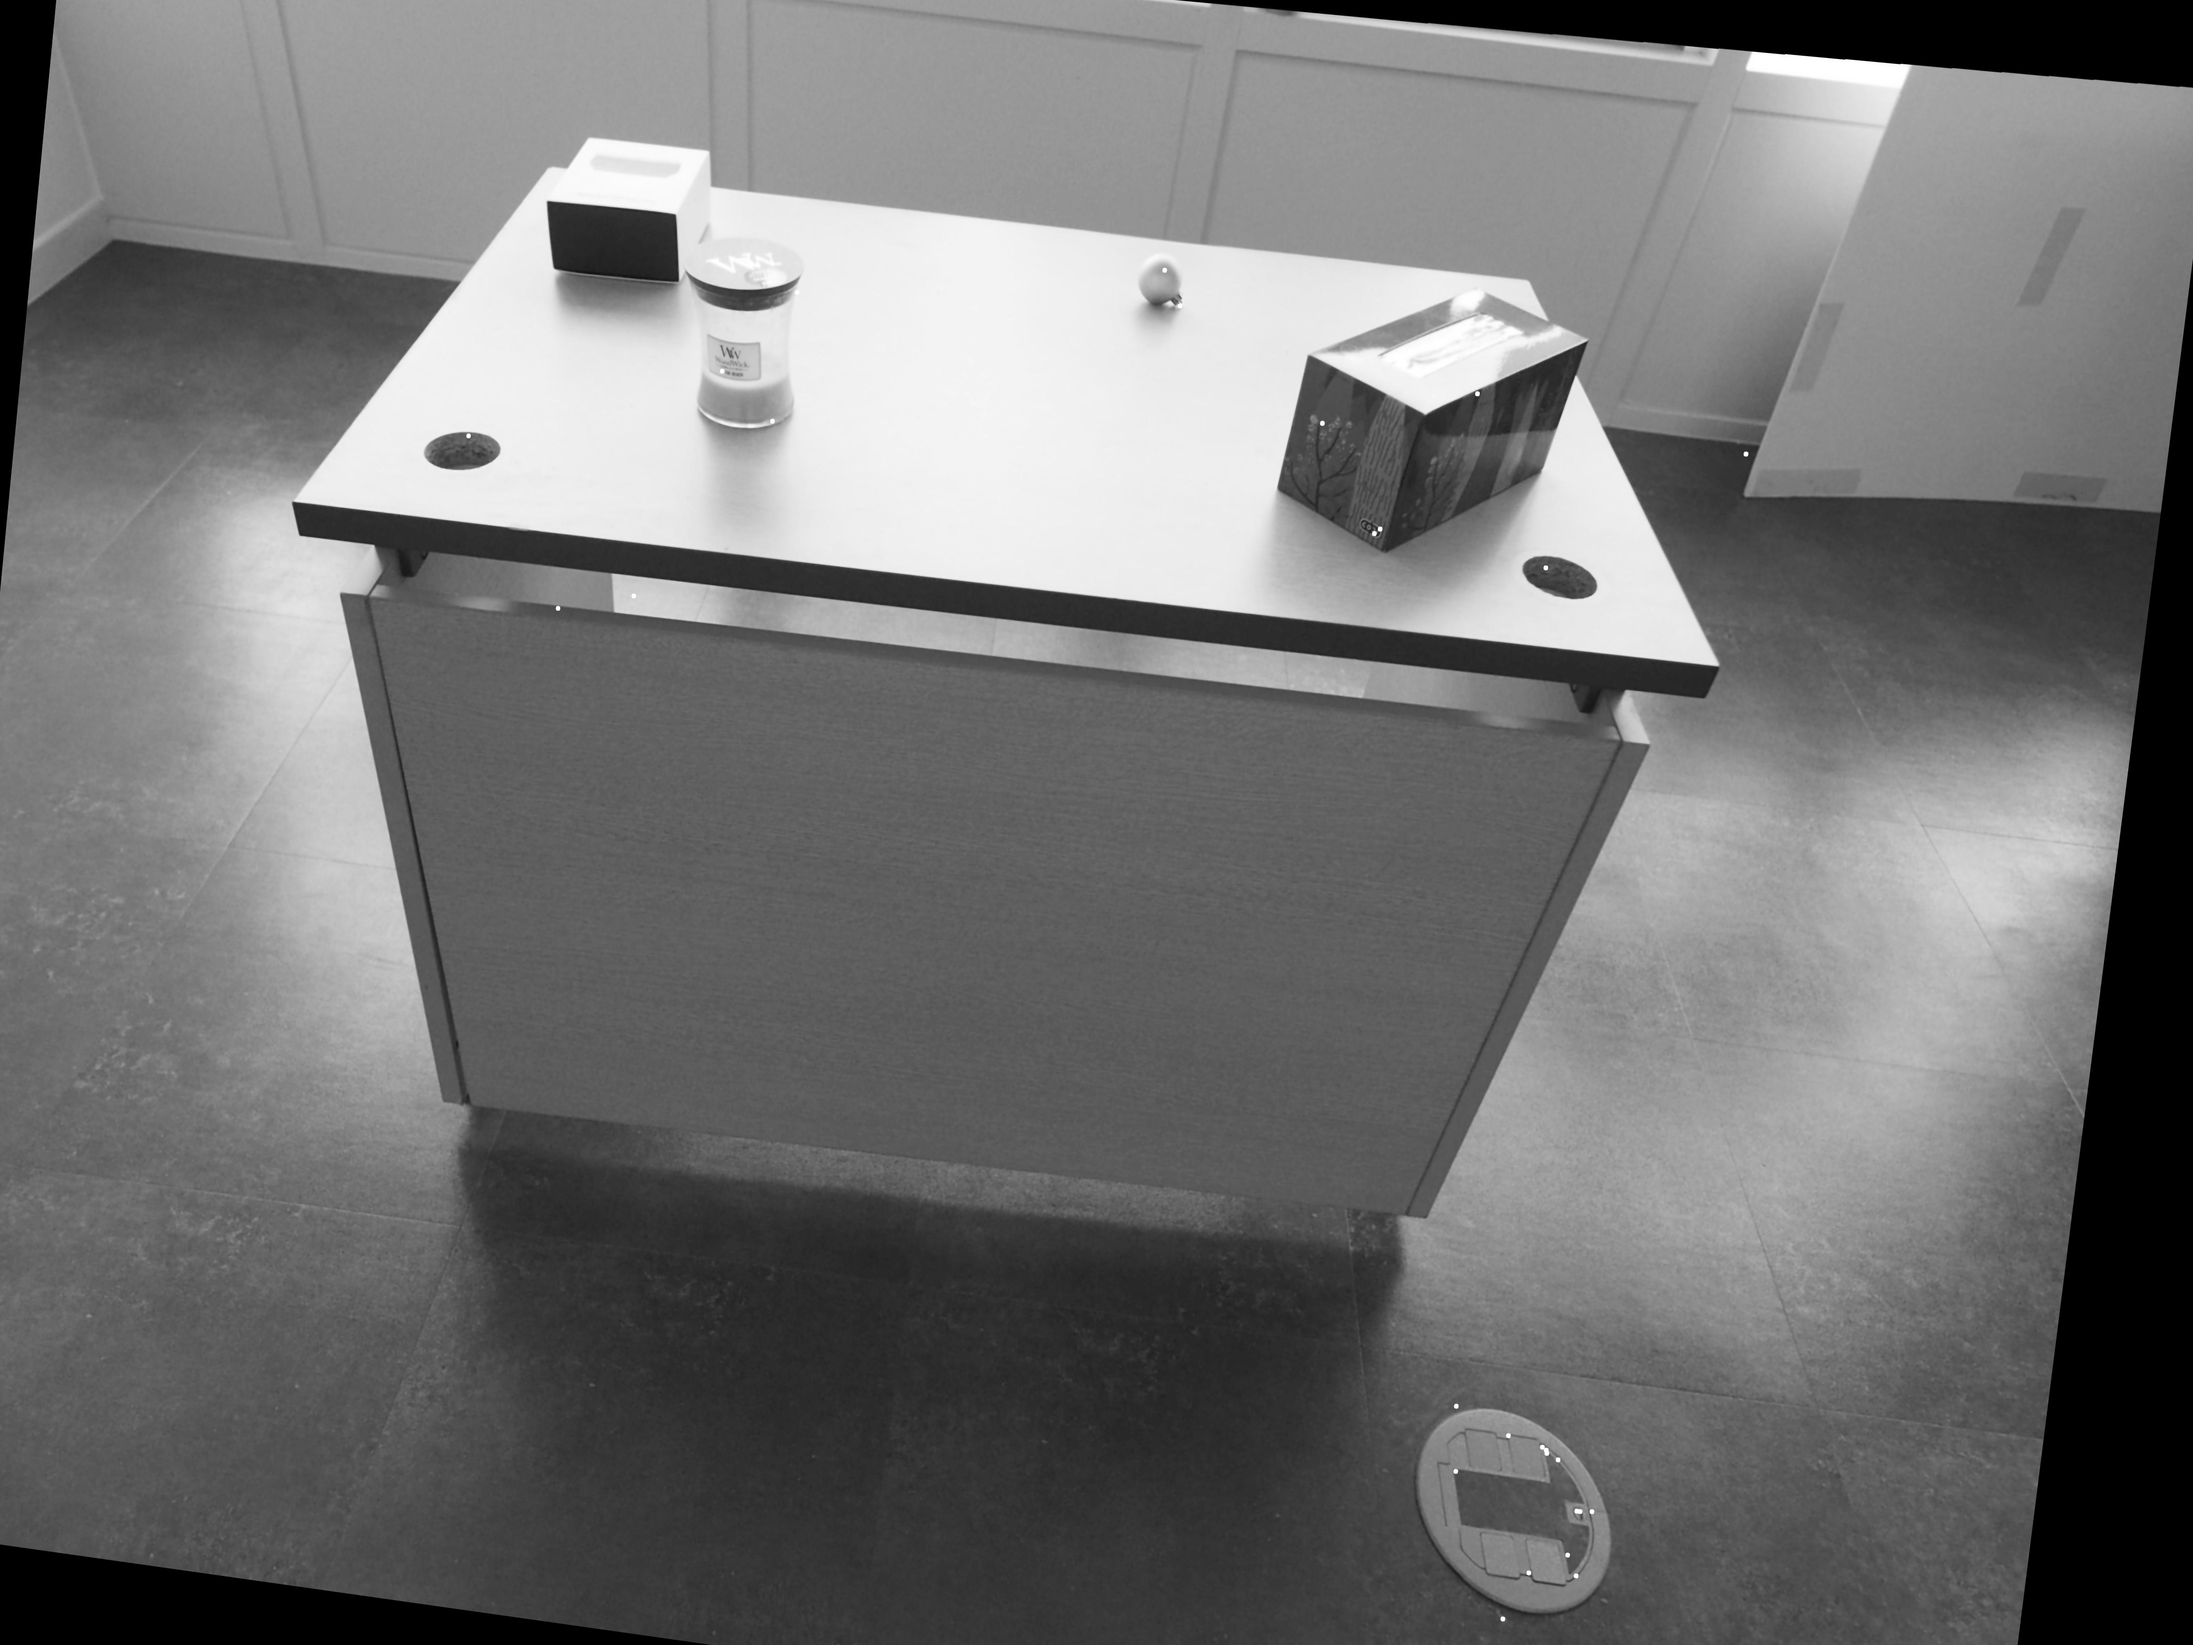
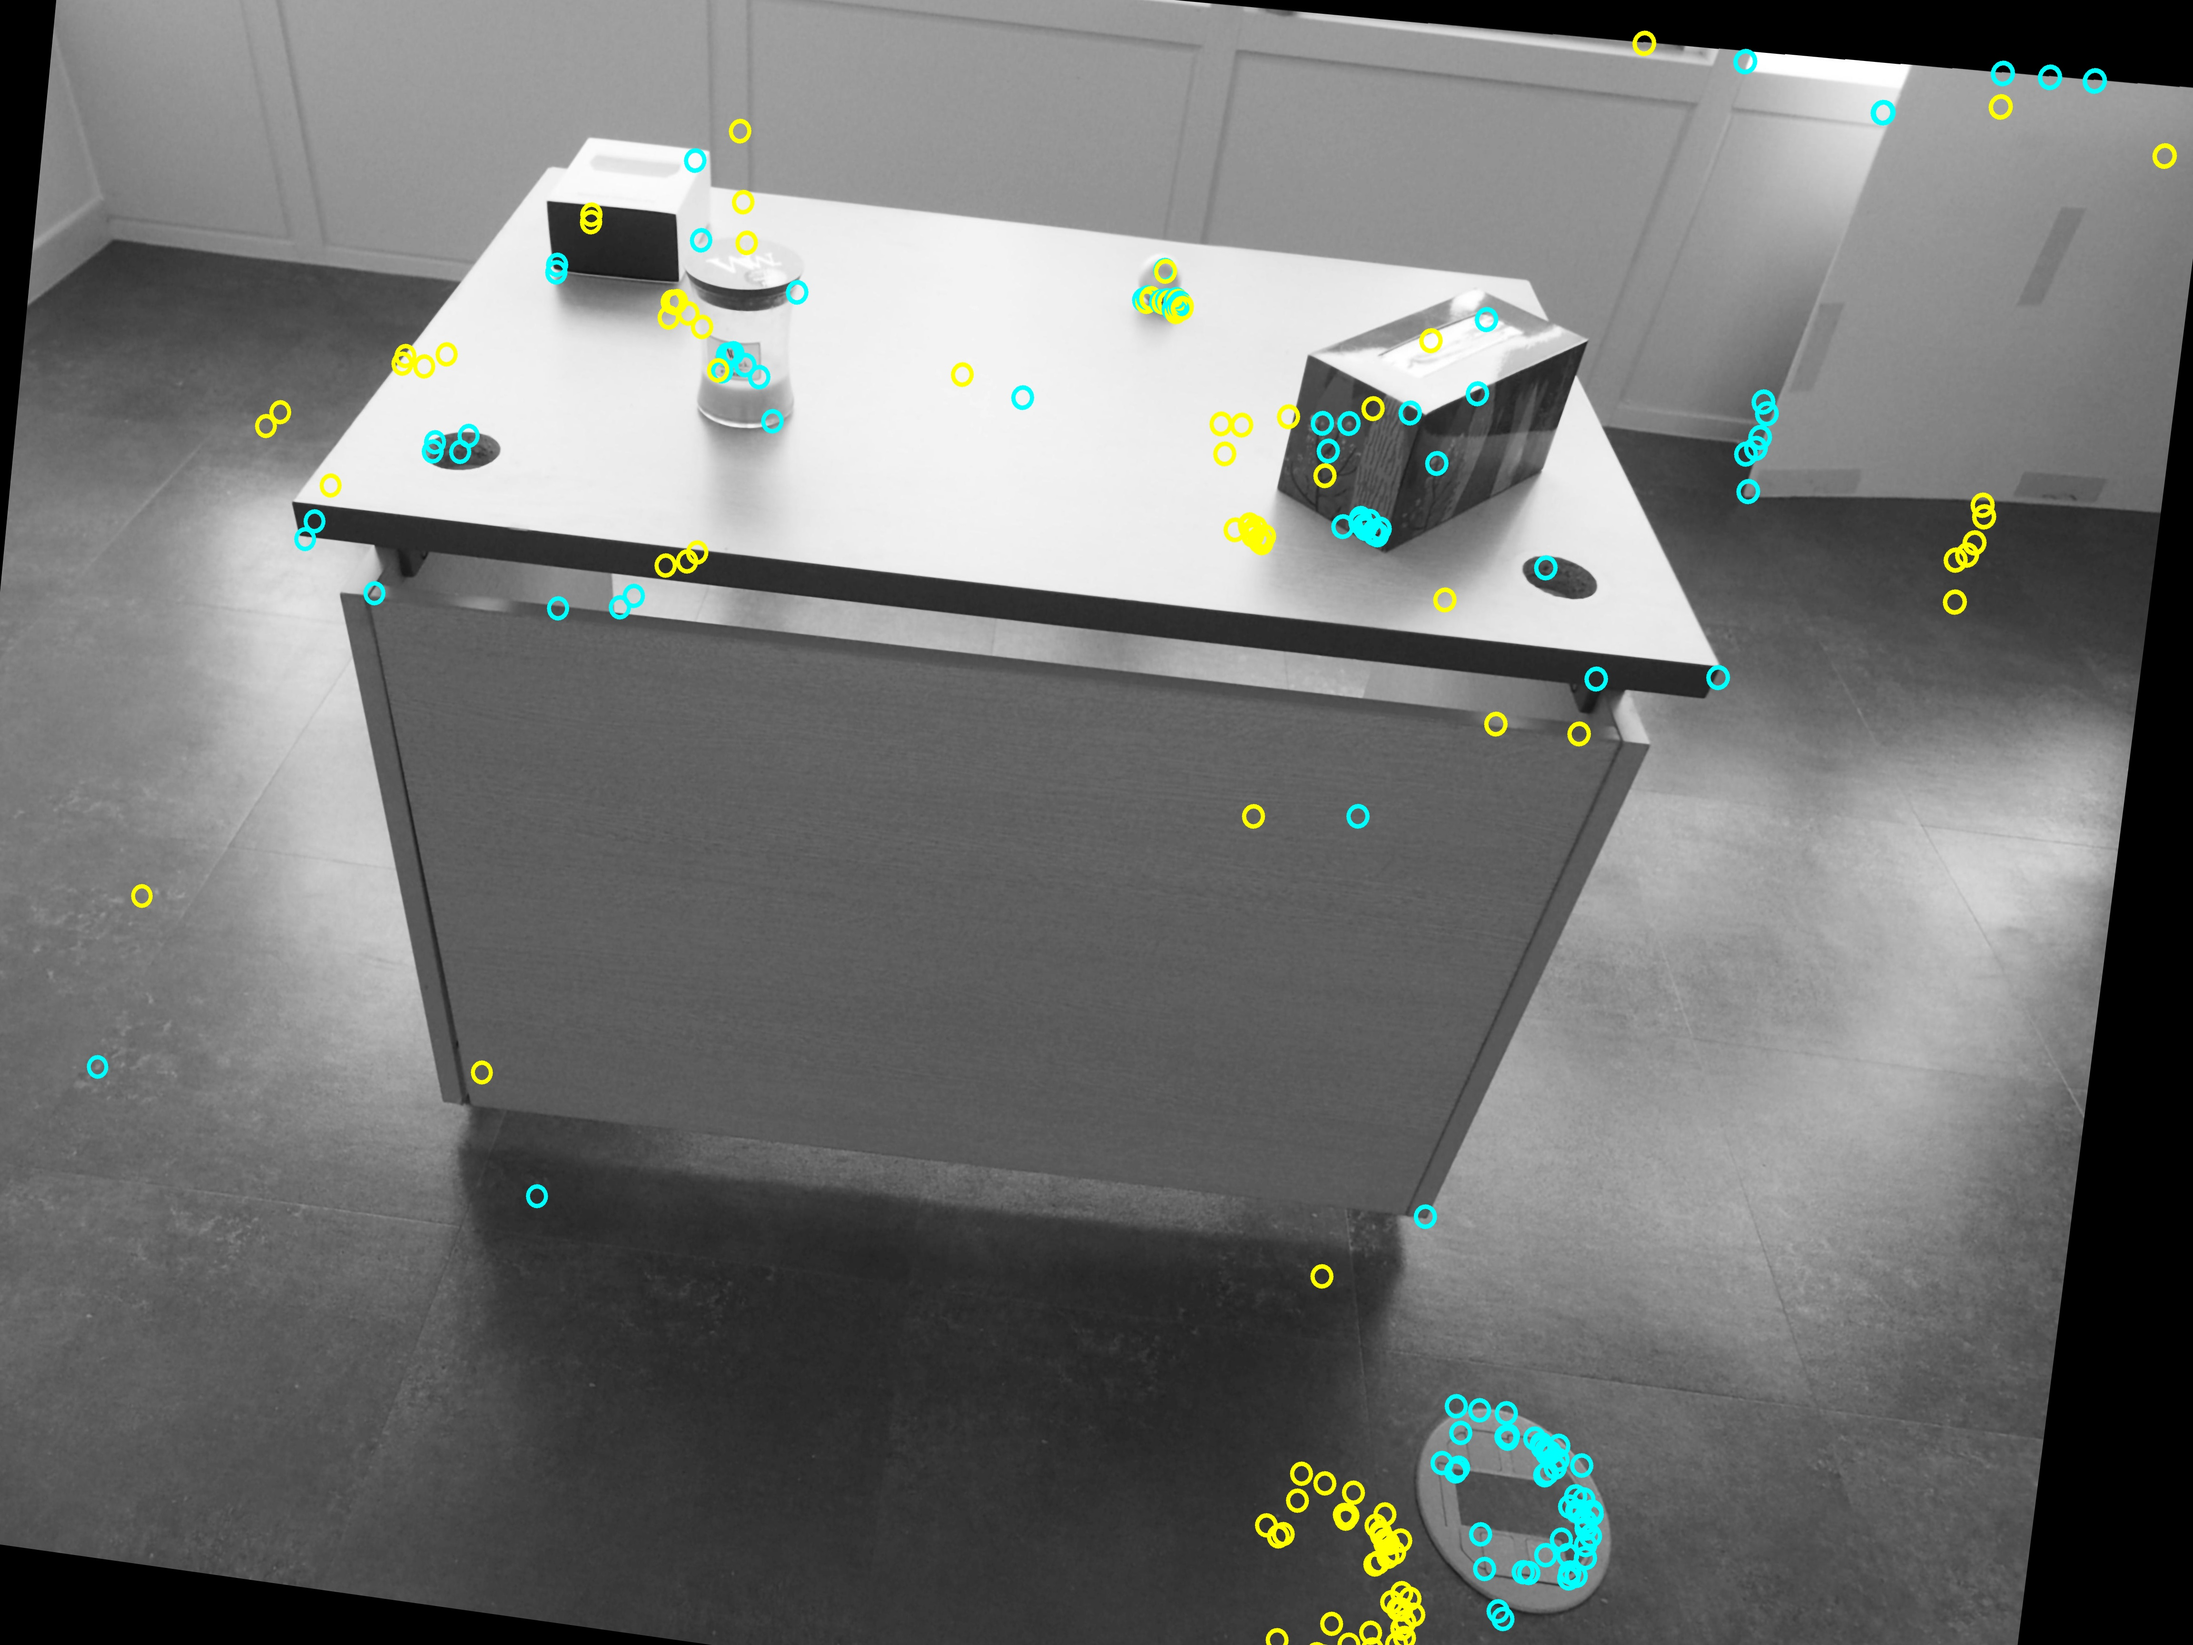
**

diff --git a/tst_sift_homography.py b/tst_sift_homography.py
@@ -47,6 +47,9 @@ pts_dst = []
 goods = []
 matchesMask = []
 
+img_1_rgb = cv2.cvtColor( img_1, cv2.COLOR_GRAY2RGB)
+img_2_rgb = cv2.cvtColor( img_2, cv2.COLOR_GRAY2RGB)
+
 for i, (m1, m2) in enumerate(matches):
     valid = True
 
@@ -77,10 +80,10 @@ for i, (m1, m2) in enumerate(matches):
 
             print(i, pt1, pt2 )
 
-            if 1 and ( i % 5 == 0 ):
+            if 1 or ( i % 5 == 0 ):
                 # Draw pairs in purple, to make sure the result is ok
-                cv2.circle(img_1, (int(pt1[0]), int(pt1[1])), 5, (255, 0, 0), -1)
-                cv2.circle(img_2, (int(pt2[0]), int(pt2[1])), 5, (0, 0, 255), -1)
+                cv2.circle(img_1_rgb, (int(pt1[0]), int(pt1[1])), 20, (255, 255, 0), 8)
+                cv2.circle(img_1_rgb, (int(pt2[0]), int(pt2[1])), 20, (0, 255, 255), 8)
             pass
         pass
     pass
@@ -88,7 +91,7 @@ pass
 
 h, status = cv2.findHomography( np.array(pts_src), np.array(pts_dst) )
 
-img3 = cv2.warpPerspective(img_1, h, (img_2.shape[1], img_2.shape[0]))
+img3 = cv2.warpPerspective(img_1_rgb, h, (img_1_rgb.shape[1], img_1_rgb.shape[0]))
 
 #draw_params = dict(matchColor = (255, 0, 0), singlePointColor = (0, 0, 255), matchesMask = matchesMask, flags = 0)
 

diff --git a/LineExtractor.py b/LineExtractor.py
@@ -26,10 +26,12 @@ class LineExtractor ( Common ):
 
         self.margin_width = 0
         self.margin_height = 0
+
+        self.grayscale = None
     pass
 
     @profile
-    def my_line_extract(self, img_path, qtUi = None, mode="A", lineListA=None) :
+    def my_line_extract(self, img_path, qtUi = None, mode="A", lineListA=None, grayscale_prev=None) :
         log.info(inspect.getframeinfo(inspect.currentframe()).function)
 
         Image.img_save_cnt = 0
@@ -126,6 +128,8 @@ class LineExtractor ( Common ):
         if 1 : # -- grayscale 변환
             #grayscale = curr_image.to_grayscale_multiotsu()
             grayscale = curr_image.grayscale()
+
+            self.grayscale = grayscale
 
             curr_image = grayscale
 
